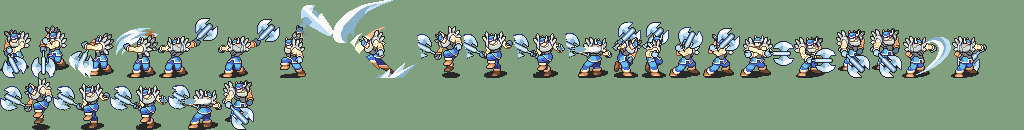
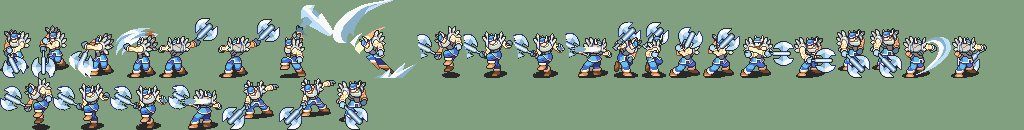
Fixing up Warrior. Starting Dance

Changed region(s): [[0.2188, 0.6154, 0.375, 1.0]]

diff --git a/Utilities/Animations/PaletteVisible.py b/Utilities/Animations/PaletteVisible.py
@@ -5,7 +5,7 @@ from PIL import Image
 
 color_set = [(240,163,255),(0,117,220),(153,63,0),(76,0,92),(25,25,25),(0,92,49),(43,206,72),(255,204,153),(128,128,128),(148,255,181),(143,124,0),(157,204,0),(194,0,136),(0,51,128),(255,164,5),(255,168,187),(66,102,0),(255,0,16),(94,241,242),(0,153,143),(224,255,102),(116,10,255),(153,0,0),(255,255,128),(255,255,0),(255,80,5)]
 
-fp = 'Archer1.png'
+fp = 'Warrior0-Axe.png'
 picture = Image.open(fp)
 
 # Get the size of the image

diff --git a/Utilities/Animations/animation_grabber.py b/Utilities/Animations/animation_grabber.py
@@ -5,14 +5,14 @@ from PIL import Image
 import palette_index
 
 COLORKEY = (128, 160, 128)
-# COLORKEY = (0, 0, 0)
+COLORKEY = (0, 0, 0)
 YLIMIT = 160
 XLIMIT = 0
-palette_set = None
+palette_set = palette_index.dance_dust
 
-folder = 'archerf_bow/'
+folder = 'dance_small_dust/'
 name = 'Attack'
-# name = 'Dust'
+name = 'Dust'
 
 if os.path.exists(folder + 'Background.png'):
     background = Image.open(folder + 'Background.png').convert('RGB')

diff --git a/Utilities/Animations/animation_collater.py b/Utilities/Animations/animation_collater.py
@@ -6,10 +6,10 @@ from PIL import Image
 
 COLORKEY = (128, 160, 128)
 COLORKEY = (0, 0, 0)
-FIND_COLORKEY = True
+FIND_COLORKEY = False
 NEW_COLORKEY = (128, 160, 128)
 WIDTH_LIMIT = 1024
-folder = 'archerf_hat_bow'
+folder = 'dance_small_dust'
 index_lines = []
 
 files = glob.glob(folder + '/*.png')

diff --git a/Utilities/Animations/palette_index.py b/Utilities/Animations/palette_index.py
@@ -1469,6 +1469,9 @@ barrier_dust = [(248, 248, 248),
 
 white = [(248, 248, 248)]
 
+dance_dust = [(240, 240, 224),
+            (32, 240, 248)]
+
 flux_slime = [(248, 136, 184),
               (216, 104, 168),
               (168, 88, 136),

diff --git a/Utilities/Animations/palette_converter.py b/Utilities/Animations/palette_converter.py
@@ -3,8 +3,8 @@ import glob
 from palette_index import *
 
 ### === INPUTS ===
-p1 = wil_sniper
-p2 = sniper_blue
+p1 = ross_warrior
+p2 = warrior_blue
 images_to_convert = '*.png'
 
 def palette_convert(p1, p2, image_to_convert):
